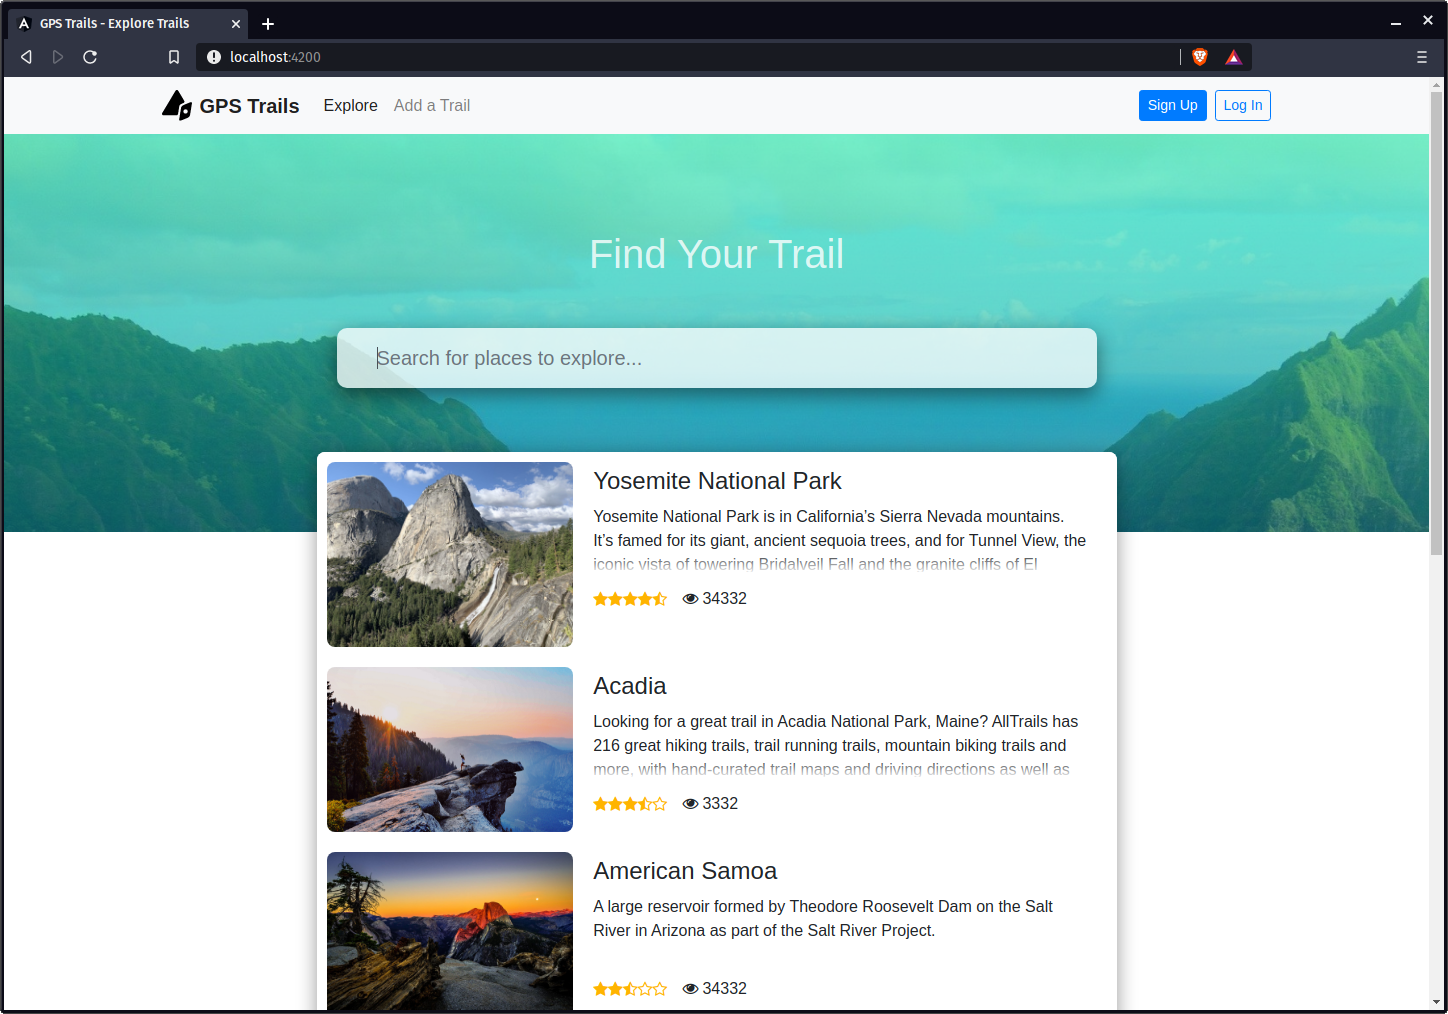
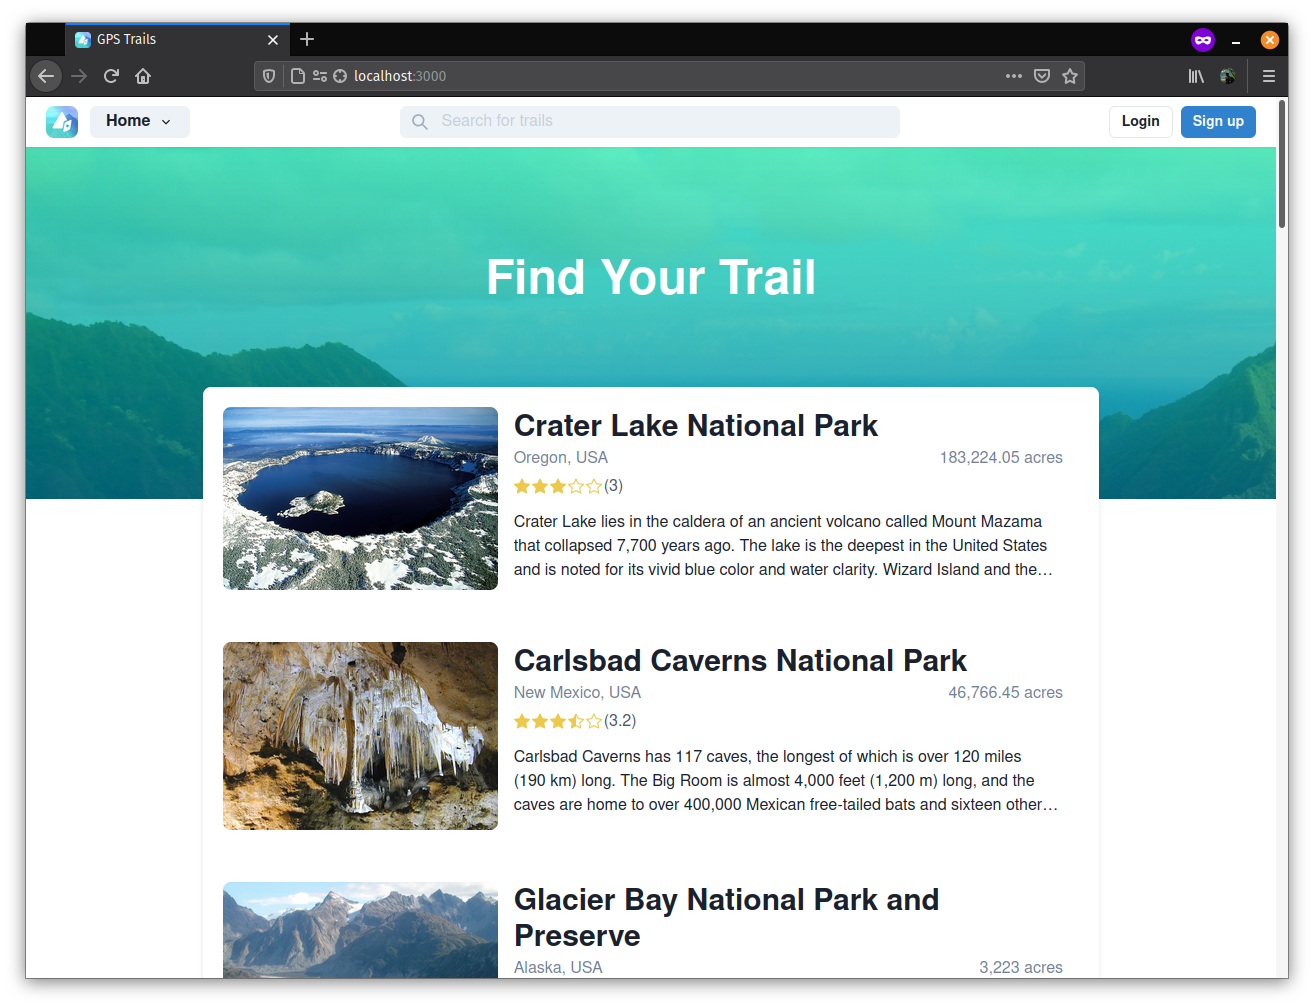
Update README

diff --git a/README.md b/README.md
@@ -9,20 +9,21 @@ GPS  Trails  is  a  user-centralized web-application that  is  designed  to  fos
 <br />
 
 ## Implementation
-GPS Trails is implemented using 3 stand-alone  components: Angular for the client facing front-end, NestJS as the backend API server that talks to a MySQL database to store and fetch trail and user related data. Additionally, we make use of the Mapbox API in order to serve a custom interactable map interface.
+GPS Trails is implemented using 3 stand-alone  components: React with Next.js for the client facing front-end, NestJS as the backend API server that talks to a MySQL database to store and fetch trail and user related data. Additionally, we make use of the Mapbox API in order to serve a custom interactable map interface.
 
 ## Pages
 <p align="center">
-    <img src="frontend/public/img/previews/explore_acadia.png" />
-    <small><i>Emplore page on <a href="https://en.wikipedia.org/wiki/Acadia_National_Park">Acadia National Park</a></i></small>
+    <img src="frontend/public/img/previews/explore_park.png" />
+    <small><i>Emplore page on <a href="https://en.wikipedia.org/wiki/Glacier_National_Park_(U.S.)">Glacier National Park</a></i></small>
 </p>
 <br />
 <p align="center">
-    <img src="frontend/public/img/previews/park_page.png" />
-    <small><i>Detailed park page on <a href="https://en.wikipedia.org/wiki/Yosemite_National_Park">Yosemite National Park</a></i></small>
+    <img src="frontend/public/img/previews/search.png" />
+    <small><i>Real-time search functionality</i></small>
 </p>
 
 ## Set Up
+Since this project makes use of separate components to work, the set up requires setting up a database, api server, initializing data from the web scraper, and finally, setting up the frontend Next.js server.
 ### Clone project
 ```
 $ git clone https://github.com/ayaanqui/gps-trails.git
@@ -31,7 +32,7 @@ $ cd gps-trails
 
 ### Create database
 Since this project relies on MySQL as the database, all dependencies are for MySQL. To ensure that the project runs properly create an empty database.
-`CREATE DATABASE gps-trails;`
+`CREATE DATABASE gps_trails;`
 
 ### Setting Up the API Server
 ```
@@ -49,7 +50,7 @@ Now, we need to ensure that TypeORM is able to find the connection strings to co
   "port": 3306,
   "username": "root",
   "password": "root",
-  "database": "gps-trails",
+  "database": "gps_trails",
   "entities": ["dist/**/*.entity{.ts,.js}"],
   "synchronize": true
 }
@@ -67,12 +68,26 @@ Once this step is complete, run the command `npm start`. If everything compiles 
 [Nest] 430432   - 05/16/2021, 4:32:14 PM   [InstanceLoader] TypeOrmModule dependencies initialized
 ....
 ```
-With that, the server should be up, and ready to be used for our frontend Angular service.
+With that, the server should be up, and ready to for use. 
+
+### Scraping the web for data
+Even though our server is ready, there is currently no data within the database for the service to work. Therefore, we will use the web scraper to scrape Wikipedia pages and load this data on the database and API server.
+
+__Important:__ *Make sure the API server is active and listening on port `3001` before running the web scraper.*
+
+```
+$ cd gps-trails/park-data-crawler
+```
+```
+$ npm install
+$ node us_parks.js
+$ node canada_parks.js
+```
 
 ### Setting Up The Frontend
 ```
 $ cd gps-trails/frontend
 $ npm install
-$ npm start
+$ npm run dev
 ```
-Running this should open up a new browser tab with the GPS Trails homepage, ready to be used.
+With this the frontend server should start on port `3000`, ready to be used. To make sure that everything is working as inteded, verify that ports `3000` (Next.js development server), `3001` (API server), and `3306` (MySQL server) are all running at the same time.
